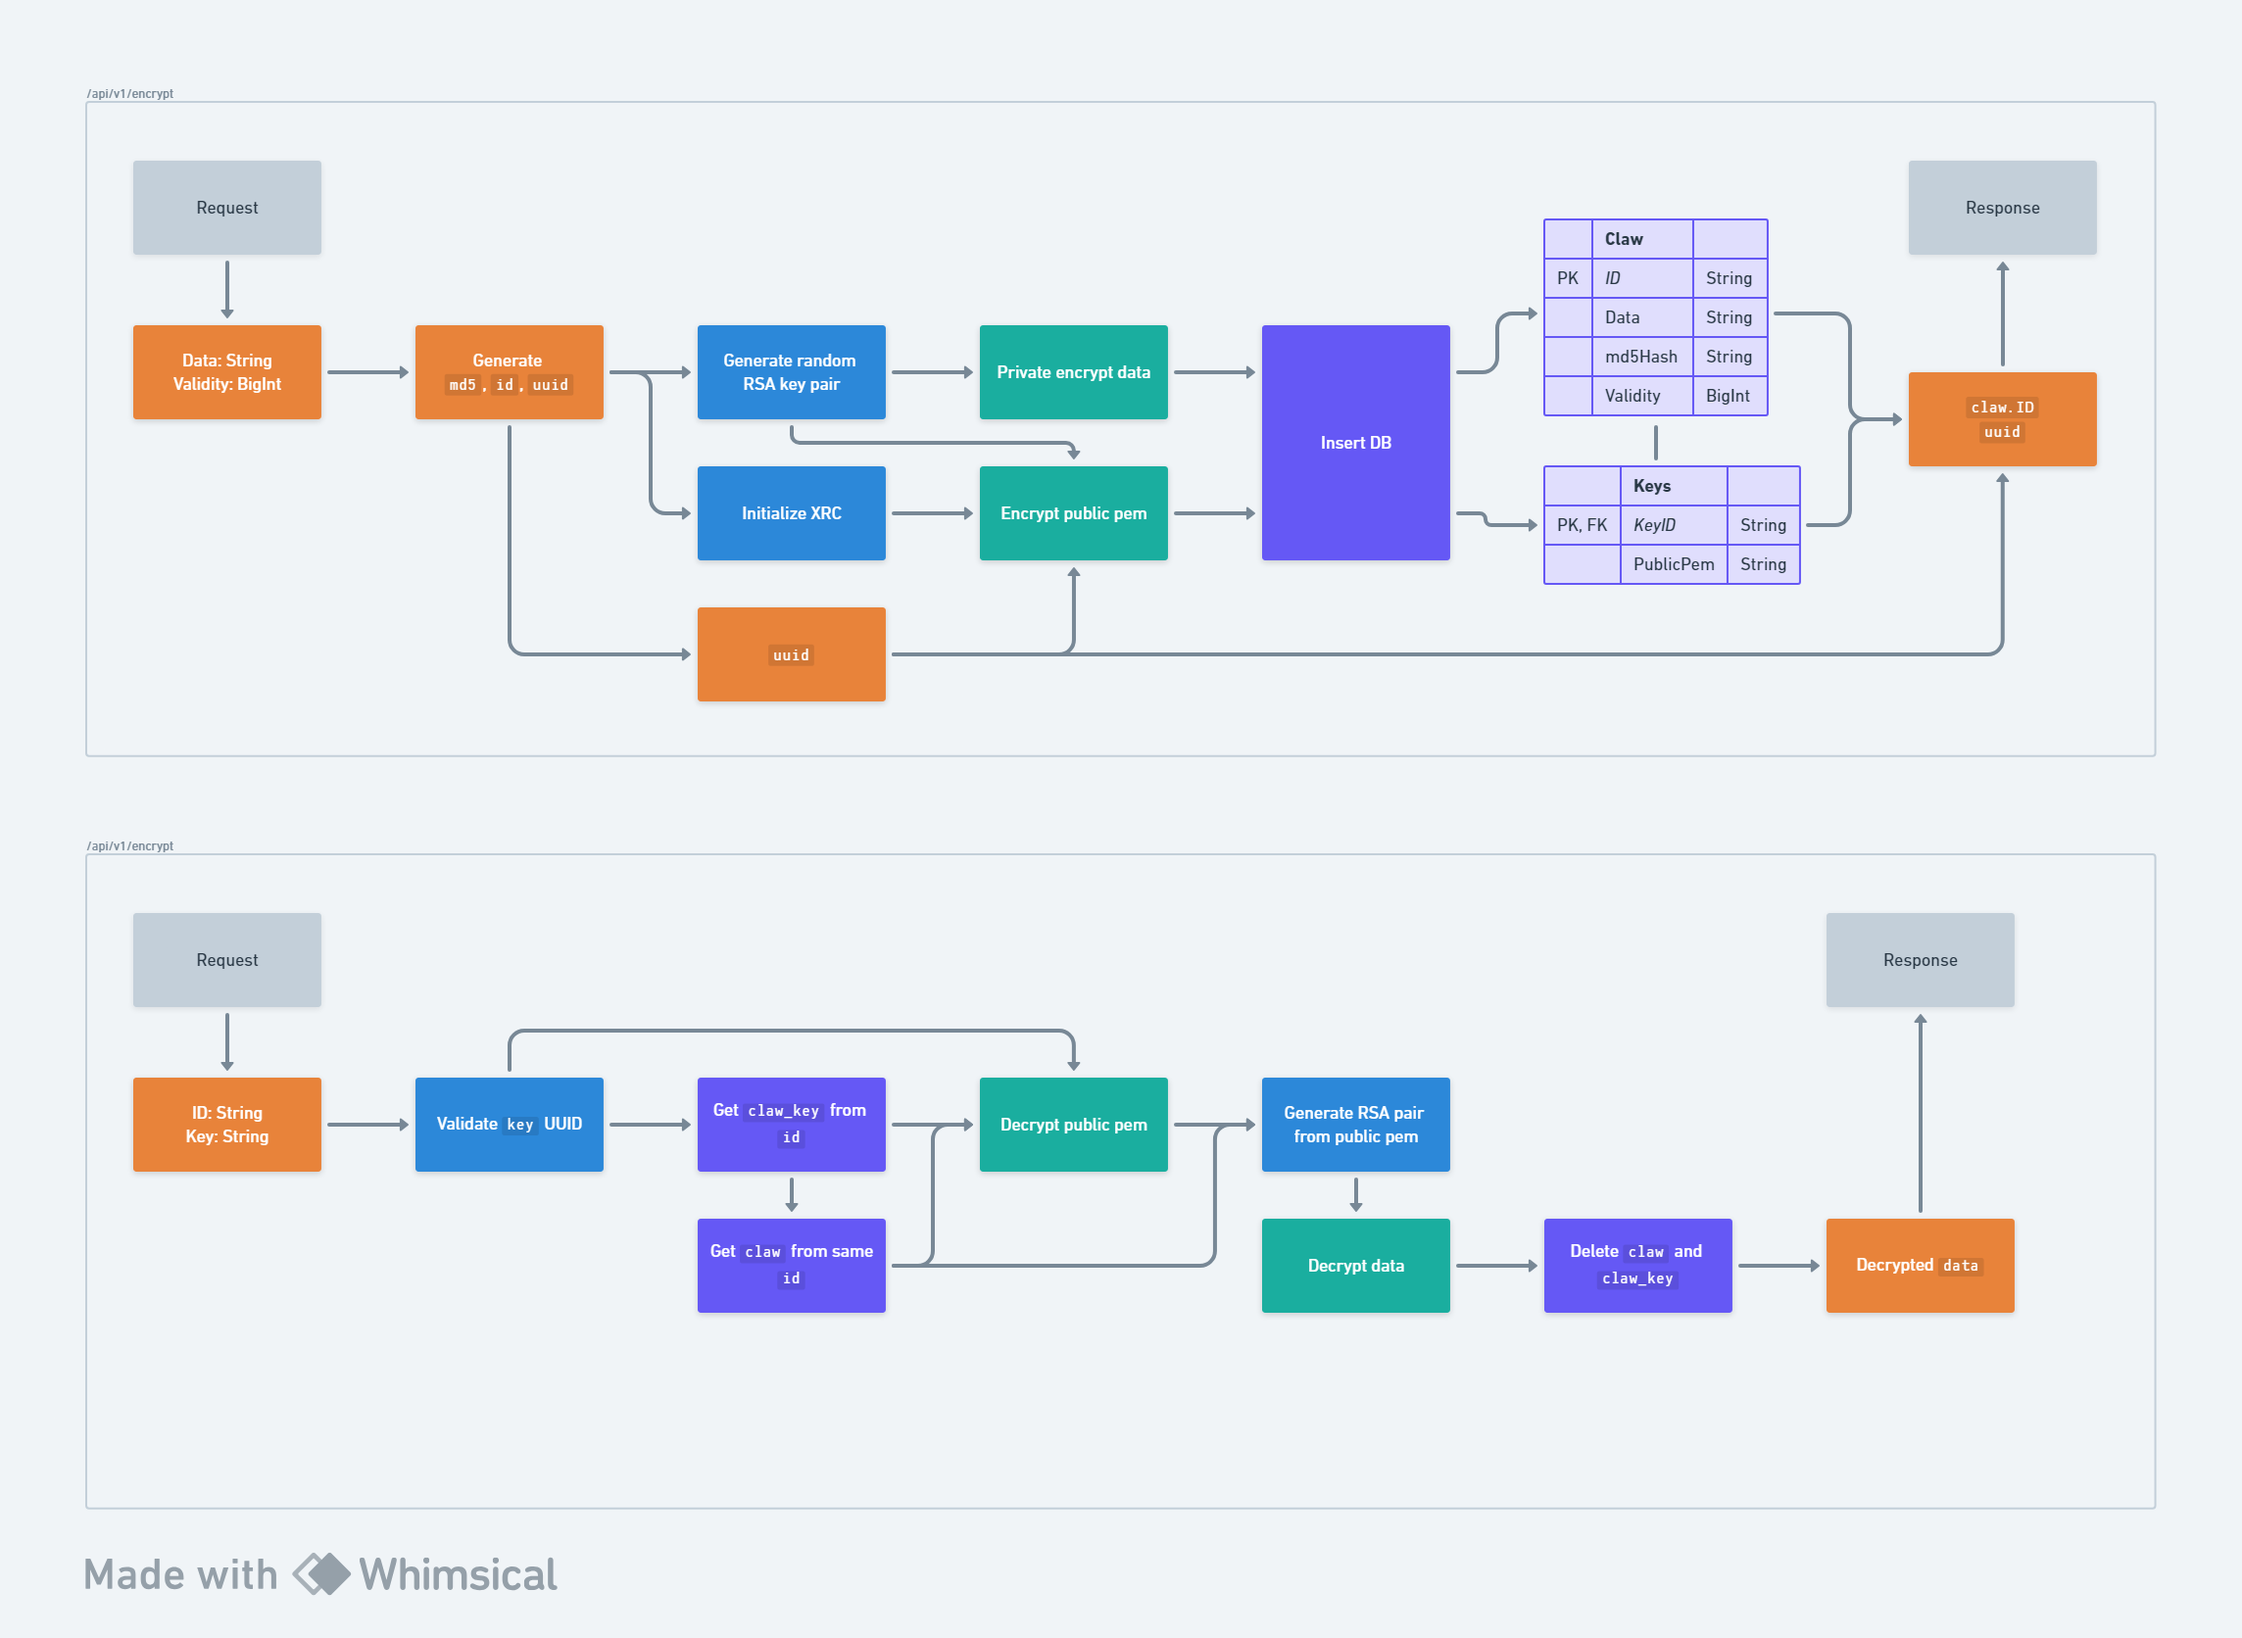
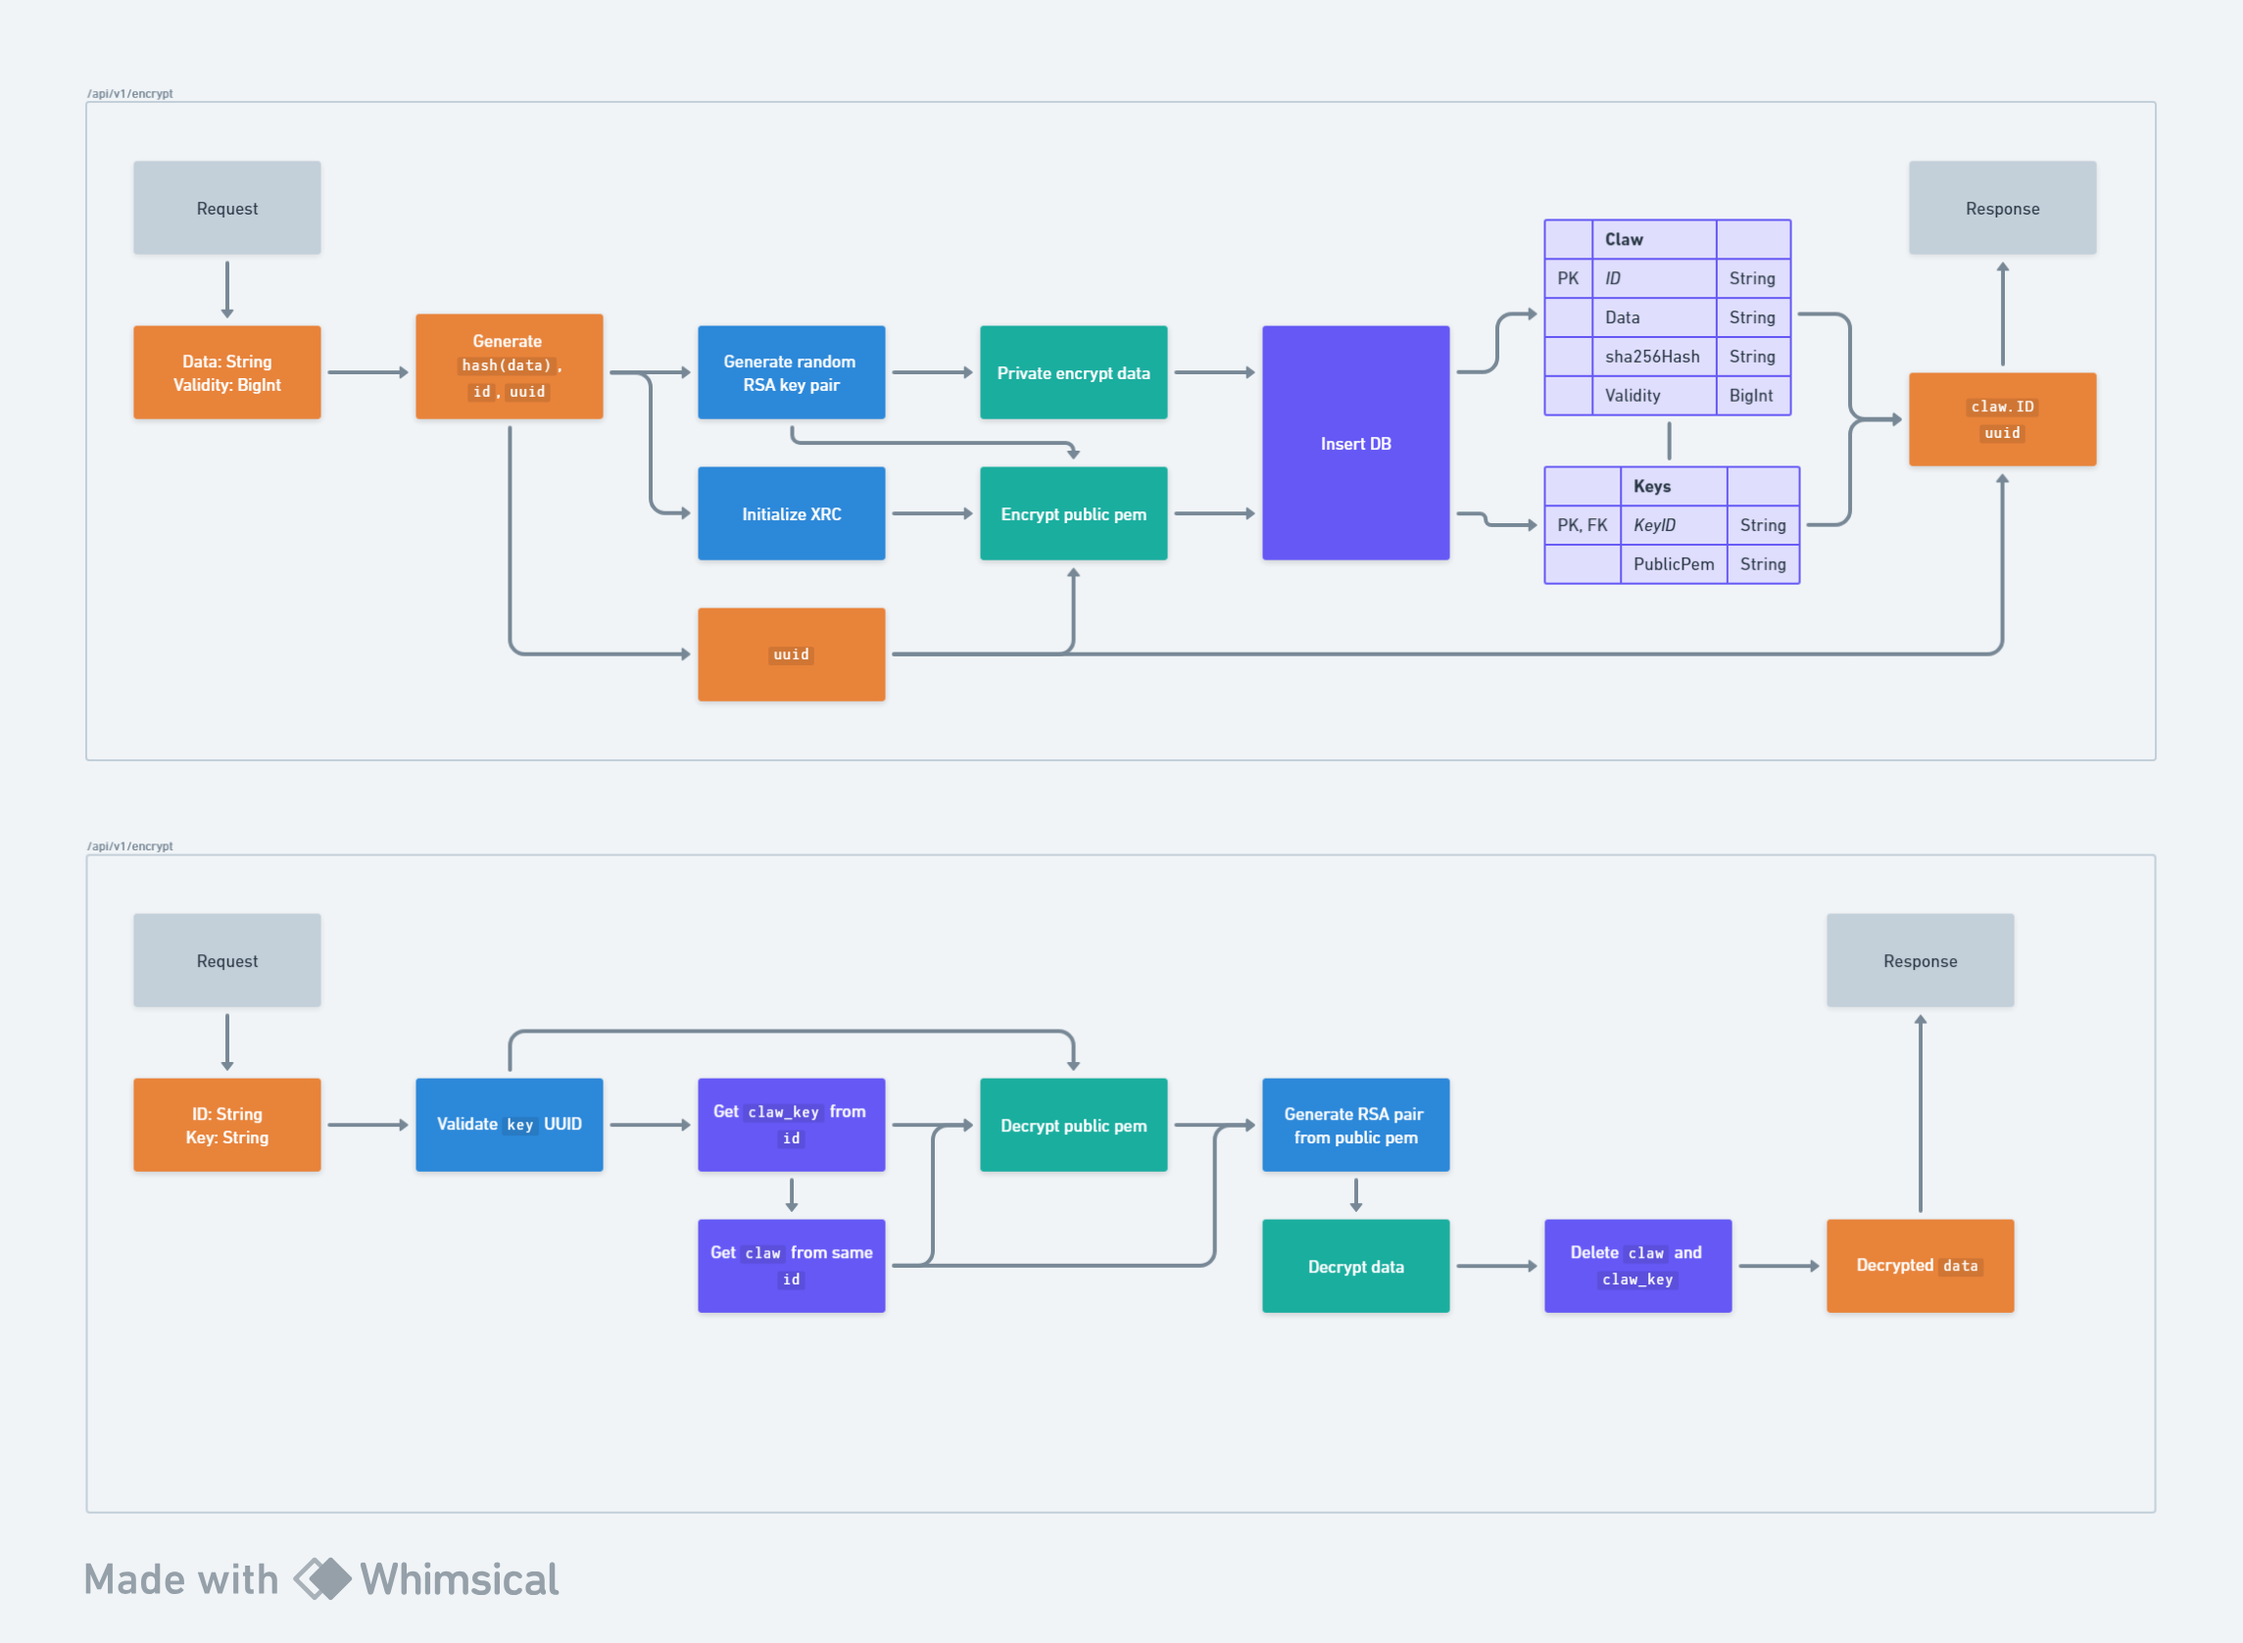
README: Update flow and add cryptographic libs used

diff --git a/README.md b/README.md
@@ -12,6 +12,13 @@ He is a symbol of commitment to privacy and security.
 ## About
 Meet [Claw Vault](https://claw-vault.up.railway.app), a platform to share sensitive information with desired recipients. Claw Vault encrypts your data, providing a unique ID and key for secure transmission. Your recipient can easily access the encrypted content using the ID and key, ensuring confidentiality. Data is automatically deleted upon access or expiration, prioritizing your privacy.
 
+## Cryptographic Libraries
+
+Here are the cryptographic libraries used in the project:
+- [`OpenSSL`](https://crates.io/crates/openssl) - For RSA and SHA256
+- [`XORCryptor (XRC)`](https://crates.io/crates/xor_cryptor) - For customized strong XOR encryption
+- [`Base64`](https://crates.io/crates/base64) - For Base64 encoding and decoding
+
 ## Flow
 
 Here is a flow diagram of how the API works.
